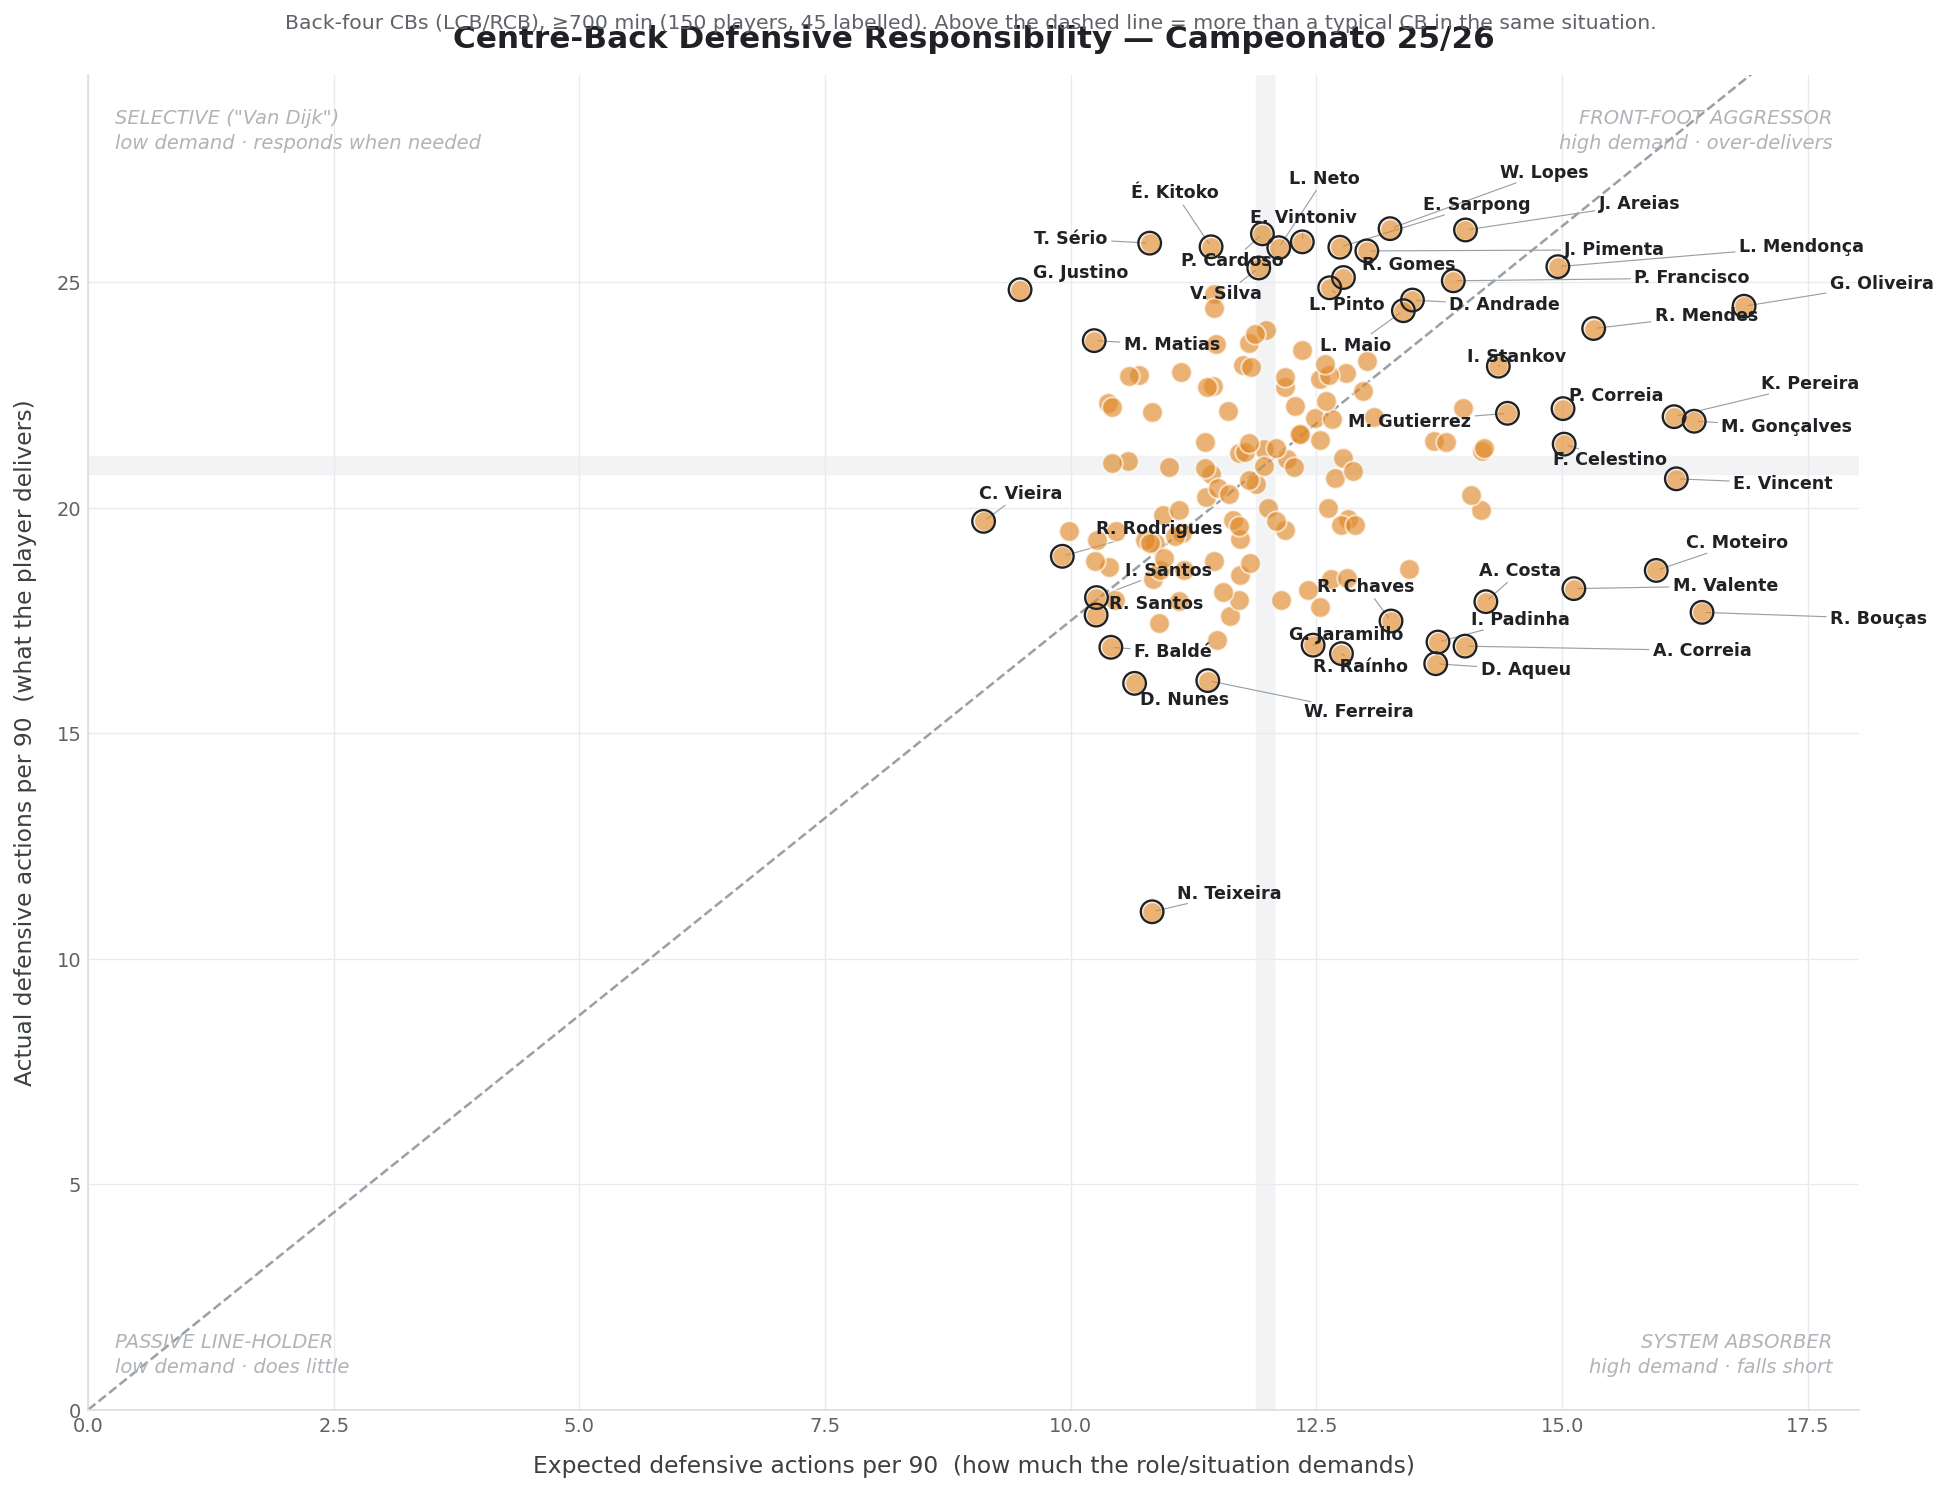
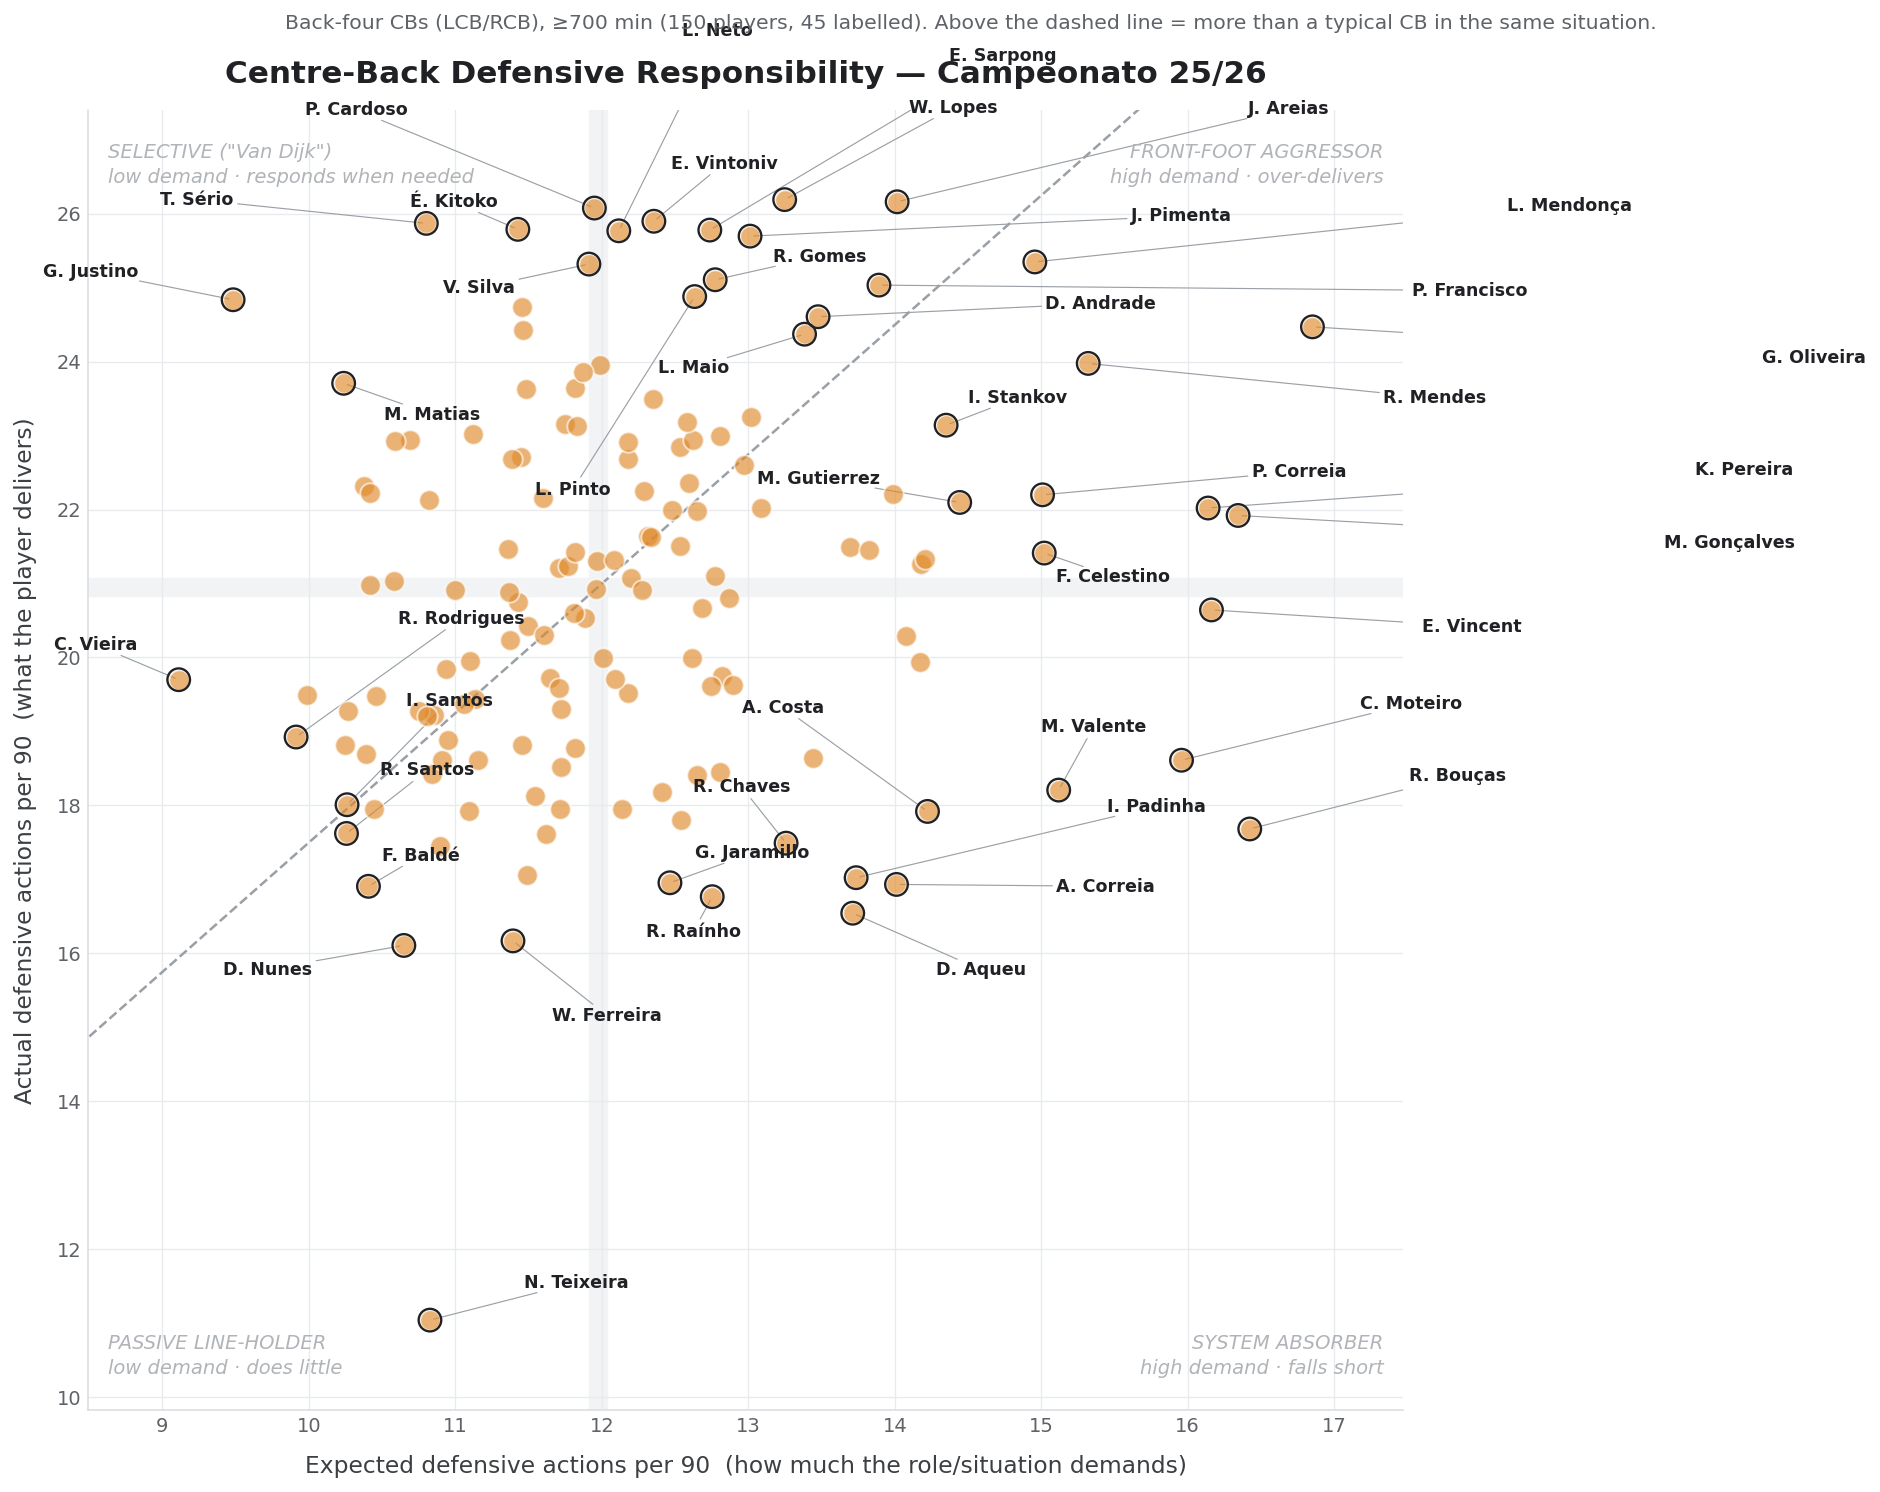
style(defr): zoom CB charts to data range so points fill the canvas
Axes now span [data min − pad, data max + pad] instead of starting at
zero, so the centre-back cloud fills the chart instead of huddling in
one corner. Applied to both the per-league CB charts and the combined
centre-back chart. The typical-CB ratio line still emanates from the
origin (clipped to the visible window).

diff --git a/models/defr/plot_defr_cb_by_league.py b/models/defr/plot_defr_cb_by_league.py
@@ -36,11 +36,13 @@ def make(sid, label, color, fname):
     fig,ax=plt.subplots(figsize=(14,11.5))
     x,y=cur['exp90'].values,cur['act90'].values
     mx,my=np.median(x),np.median(y)
-    lim_x=np.percentile(x,99)*1.10; lim_y=max(y.max(),np.percentile(y,99))*1.13
+    # zoom to the data range (with padding) so the points fill the chart
+    padx=(x.max()-x.min())*0.08; pady=(y.max()-y.min())*0.08
+    xlo,xhi=x.min()-padx,x.max()+padx; ylo,yhi=y.min()-pady,y.max()+pady
     ax.axvline(mx,color='#f1f3f4',lw=10,zorder=0); ax.axhline(my,color='#f1f3f4',lw=10,zorder=0)
     ax.grid(True,color=C_GRID,lw=0.7,zorder=0); ax.set_axisbelow(True)
     slope=my/mx if mx>0 else 1
-    ax.plot([0,lim_x],[0,slope*lim_x],'--',color=C_LINE,lw=1.3,zorder=1)
+    ax.plot([0,xhi*1.3],[0,slope*xhi*1.3],'--',color=C_LINE,lw=1.3,zorder=1)  # ratio line (clipped to view)
     ax.scatter(x,y,c=color,s=110,alpha=0.65,edgecolors='white',linewidths=1.0,zorder=3)
     ax.text(0.985,0.975,'FRONT-FOOT AGGRESSOR\nhigh demand · over-delivers',transform=ax.transAxes,ha='right',va='top',fontsize=10,color=C_QUAD,style='italic',linespacing=1.4)
     ax.text(0.985,0.025,'SYSTEM ABSORBER\nhigh demand · falls short',transform=ax.transAxes,ha='right',va='bottom',fontsize=10,color=C_QUAD,style='italic',linespacing=1.4)
@@ -58,7 +60,7 @@ def make(sid, label, color, fname):
     ax.scatter(lab['exp90'],lab['act90'],s=135,facecolors='none',edgecolors='#202124',linewidths=1.2,zorder=4)
     texts=[ax.text(r['exp90'],r['act90'],r['name'],fontsize=9,fontweight='bold',color=C_TXT,zorder=5) for _,r in lab.iterrows()]
     if HAS: adjust_text(texts,ax=ax,only_move={'text':'xy'},arrowprops=dict(arrowstyle='-',color='#9aa0a6',lw=0.6),expand=(1.25,1.45))
-    ax.set_xlim(0,lim_x); ax.set_ylim(0,lim_y)
+    ax.set_xlim(xlo,xhi); ax.set_ylim(ylo,yhi)
     for s in ('top','right'): ax.spines[s].set_visible(False)
     ax.tick_params(labelsize=10,colors='#5f6368',length=0)
     ax.set_xlabel('Expected defensive actions per 90  (how much the role/situation demands)',fontsize=12,color='#3c4043',labelpad=10)

diff --git a/models/defr/plot_defr_centerback.py b/models/defr/plot_defr_centerback.py
@@ -37,7 +37,9 @@ plt.rcParams.update({'font.family':'DejaVu Sans','axes.edgecolor':'#dadce0','fig
 fig,ax=plt.subplots(figsize=(13.5,11))
 x,y=cur['exp90'].values,cur['act90'].values
 mx,my=np.median(x),np.median(y)
-lim_x=np.percentile(x,99)*1.10; lim_y=max(y.max(),np.percentile(y,99))*1.12
+# zoom to the data range (with padding) so the points fill the chart
+padx=(x.max()-x.min())*0.08; pady=(y.max()-y.min())*0.08
+xlo,xhi=x.min()-padx,x.max()+padx; ylo,yhi=y.min()-pady,y.max()+pady
 
 # quadrant crosshairs (median)
 ax.axvline(mx,color='#f1f3f4',lw=10,zorder=0)
@@ -45,7 +47,7 @@ ax.axhline(my,color='#f1f3f4',lw=10,zorder=0)
 ax.grid(True,color=C_GRID,lw=0.7,zorder=0); ax.set_axisbelow(True)
 # ratio reference line (position-typical actual/expected)
 slope=my/mx if mx>0 else 1
-ax.plot([0,lim_x],[0,slope*lim_x],'--',color=C_LINE,lw=1.3,zorder=1,label='Typical CB level')
+ax.plot([0,xhi*1.3],[0,slope*xhi*1.3],'--',color=C_LINE,lw=1.3,zorder=1,label='Typical CB level')
 
 ax.scatter(x,y,c=cur['color'],s=120,alpha=0.7,edgecolors='white',linewidths=1.0,zorder=3)
 
@@ -63,7 +65,7 @@ ax.scatter(to_label['exp90'],to_label['act90'],s=150,facecolors='none',edgecolor
 texts=[ax.text(r['exp90'],r['act90'],r['name'],fontsize=10,fontweight='bold',color=C_TXT,zorder=5) for _,r in to_label.iterrows()]
 if HAS: adjust_text(texts,ax=ax,only_move={'text':'xy'},arrowprops=dict(arrowstyle='-',color='#9aa0a6',lw=0.7),expand=(1.3,1.5))
 
-ax.set_xlim(0,lim_x); ax.set_ylim(0,lim_y)
+ax.set_xlim(xlo,xhi); ax.set_ylim(ylo,yhi)
 for s in ('top','right'): ax.spines[s].set_visible(False)
 ax.tick_params(labelsize=10,colors='#5f6368',length=0)
 ax.set_xlabel('Expected defensive actions per 90  (how much the role/situation demands)',fontsize=12,color='#3c4043',labelpad=10)
